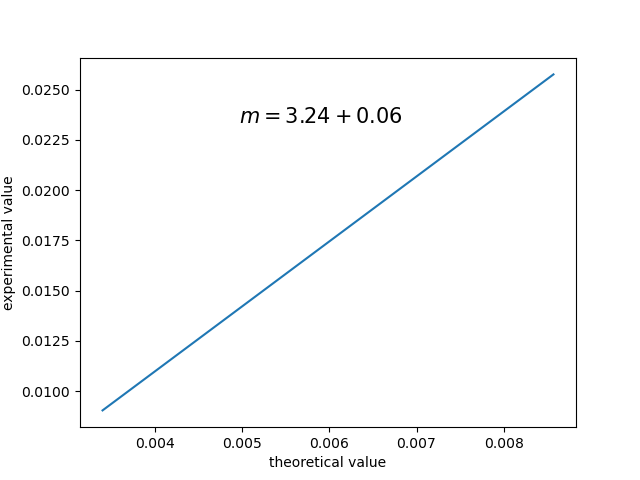
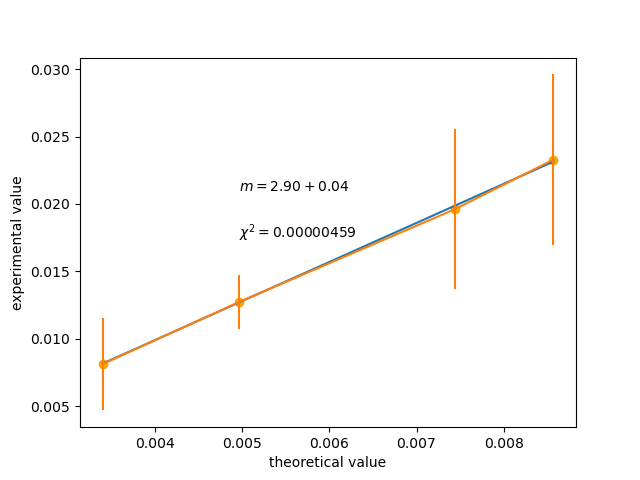
yay

diff --git a/src/elsa/dataReader.py b/src/elsa/dataReader.py
@@ -92,6 +92,11 @@ def drawHistograms(file, histogramArray, indexTranslation):
         #[amplitude, mean, stddev]
         #p0 = [np.max(yMirrorcounts), ycenters[np.argmax(yMirrorcounts)], 10]
         p0 = [np.max(yMirrorcounts), 10]
+        print(yMirrorcounts)
+        print(ycenters)
+        mask = (yMirrorcounts == 0)
+        print(mask)
+        print(ycenters[mask])
 
         
         #fit with scipy
@@ -177,7 +182,7 @@ def drawHistograms(file, histogramArray, indexTranslation):
 
 
         #plt.title(indexTranslation[i])
-        plt.savefig("finished_plots/Filteredunmirrored" + indexTranslation[i] + ".png")
+        #plt.savefig("finished_plots/Filteredunmirrored" + indexTranslation[i] + ".png")
 
 
         #plt.savefig("finished_plots/filtered_noMaterial.png")
@@ -234,35 +239,54 @@ def gaussMu(x,A,sigma):
     return A * np.exp(-(x - fixmu)**2 / (2*sigma**2))
 
 def fit():
-    yA = np.array([0.00904, 0.01419, 0.02185, 0.02594])
+    yA = np.array([0.00812, 0.01274, 0.01961, 0.02329])
+    yAErr = np.array([0.00343, 0.00198, 0.00593, 0.00632])
+
     xA = np.array([0.0034, 0.00497, 0.00744, 0.00857])
 
-    yC = np.array([0.00866, 0.001322, 0.02223, 0.02371])
+    yC = np.array([0.00778, 0.01187, 0.01995, 0.02129])
+    yCErr = np.array([0.00678, 0.00171, 0.00510, 0.00592])
+
     xC = np.array([0.0031, 0.0047, 0.0069, 0.0085])
     
     p0 = [3,0]
 
-    popt, pcov = curve_fit(linear, xA, yA, p0 = p0)
+    popt, pcov = curve_fit(linear, xA, yA, p0 = p0, sigma = yAErr)
     perr = np.sqrt(np.diag(pcov))
+
+    y_fitted = linear(xA, *popt)
+    chi2 = np.sum((yA - y_fitted)**2 / y_fitted)
 
     
     plt.plot(xA,linear(xA, *popt))
+    plt.scatter(xA, yA, color="orange")
+    plt.errorbar(xA, yA, yerr= yAErr)
     #plt.title("Aluminium")
     plt.xlabel("theoretical value")
     plt.ylabel("experimental value")
 
     plt.text(xA[1], np.max(yA) - np.max(yA)/10, rf"$m={popt[0]:.2f} + {perr[0]:.2f}$", fontsize=10)
+    plt.text(xA[1], np.max(yA) - 2.5*np.max(yA)/10, rf"$\chi^2 = {chi2:.8f}$")
     plt.savefig("finished_plots/Aluminium.png")
     plt.show()
 
-    popt, pcov = curve_fit(linear, xC, yC, p0=p0)
+    popt, pcov = curve_fit(linear, xC, yC, p0=p0, sigma=yCErr)
     perr = np.sqrt(np.diag(pcov))
 
+    perr = np.sqrt(np.diag(pcov))
+
+    y_fitted = linear(xC, *popt)
+    chi2 = np.sum((yC - y_fitted)**2 / y_fitted)
+
+
     plt.plot(xC, linear(xC, *popt))
+    plt.scatter(xC, yC, color="orange")
+    plt.errorbar(xC, yC, yerr= yCErr)
     #plt.title("Copper")
     plt.xlabel("theoretical value")
     plt.ylabel("experimental value")
     plt.text(xC[1], np.max(yC) - np.max(yC)/10, rf"$m={popt[0]:.2f} + {perr[0]:.2f}$", fontsize=10)
+    plt.text(xA[1], np.max(yC) - 2.5*np.max(yC)/10, rf"$\chi^2 = {chi2:.8f}$")
     plt.savefig("finished_plots/Copper.png")
 
     plt.show()
@@ -290,12 +314,12 @@ indexTranslation = [
     "Copper, Two Radiation Lengths, 40cm Distance",
     "Copper, Three Radiation Lengths, 40cm Distance"
         ]
-files = openfile()
+#files = openfile()
 
 #Use this array to show which histograms you want to analyze and plot
 histogramArray = [0,1,2,3,4,5,6,7,8]
-drawHistograms(files, histogramArray, indexTranslation)
-#fit()
+#drawHistograms(files, histogramArray, indexTranslation)
+fit()
 
 
 
